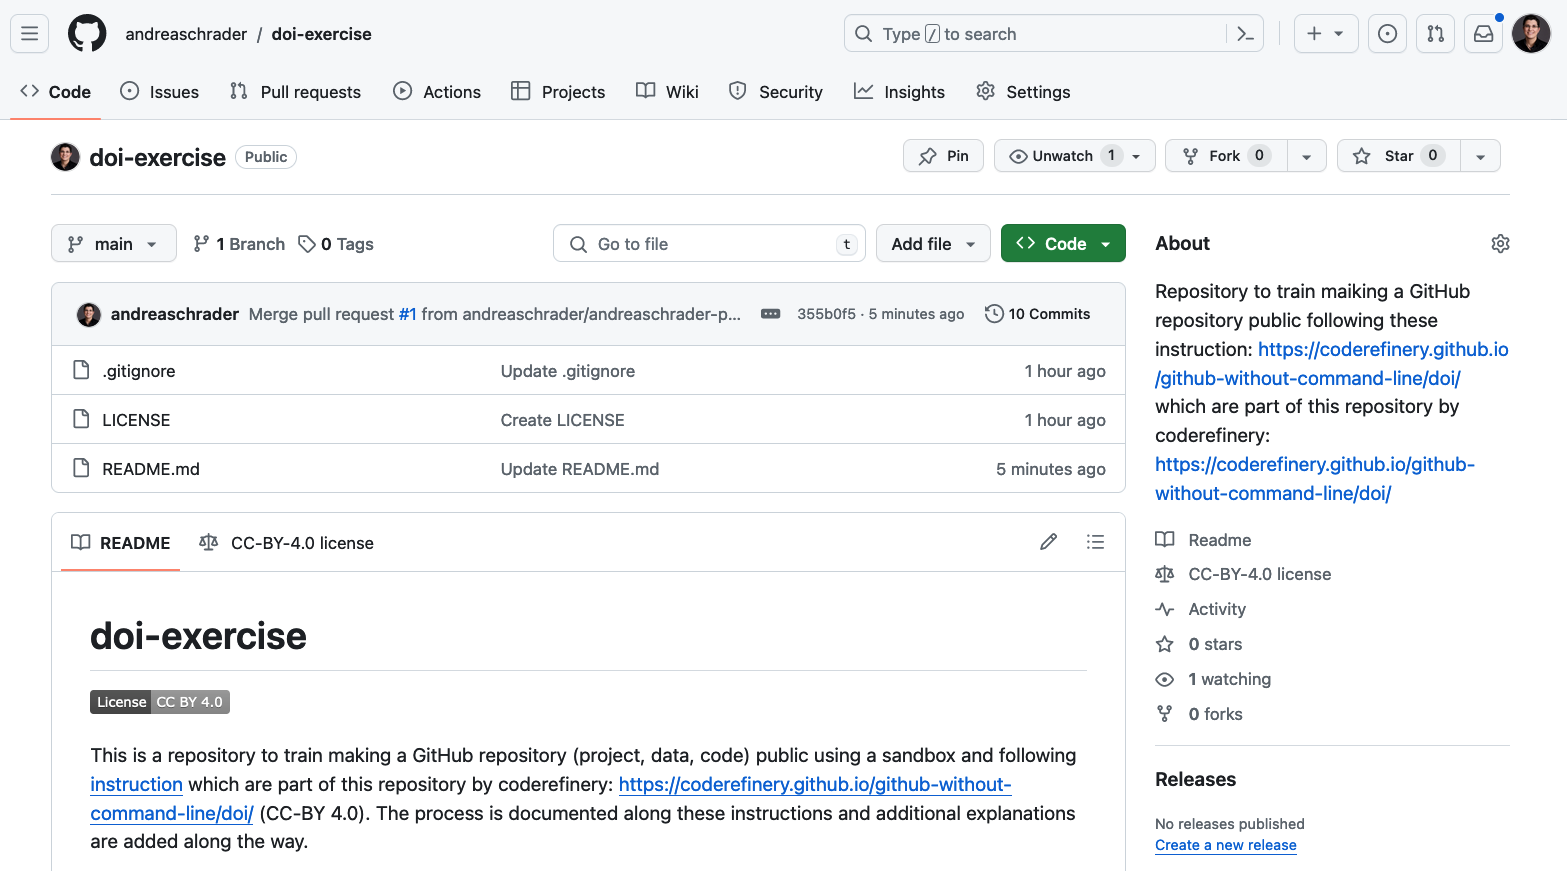
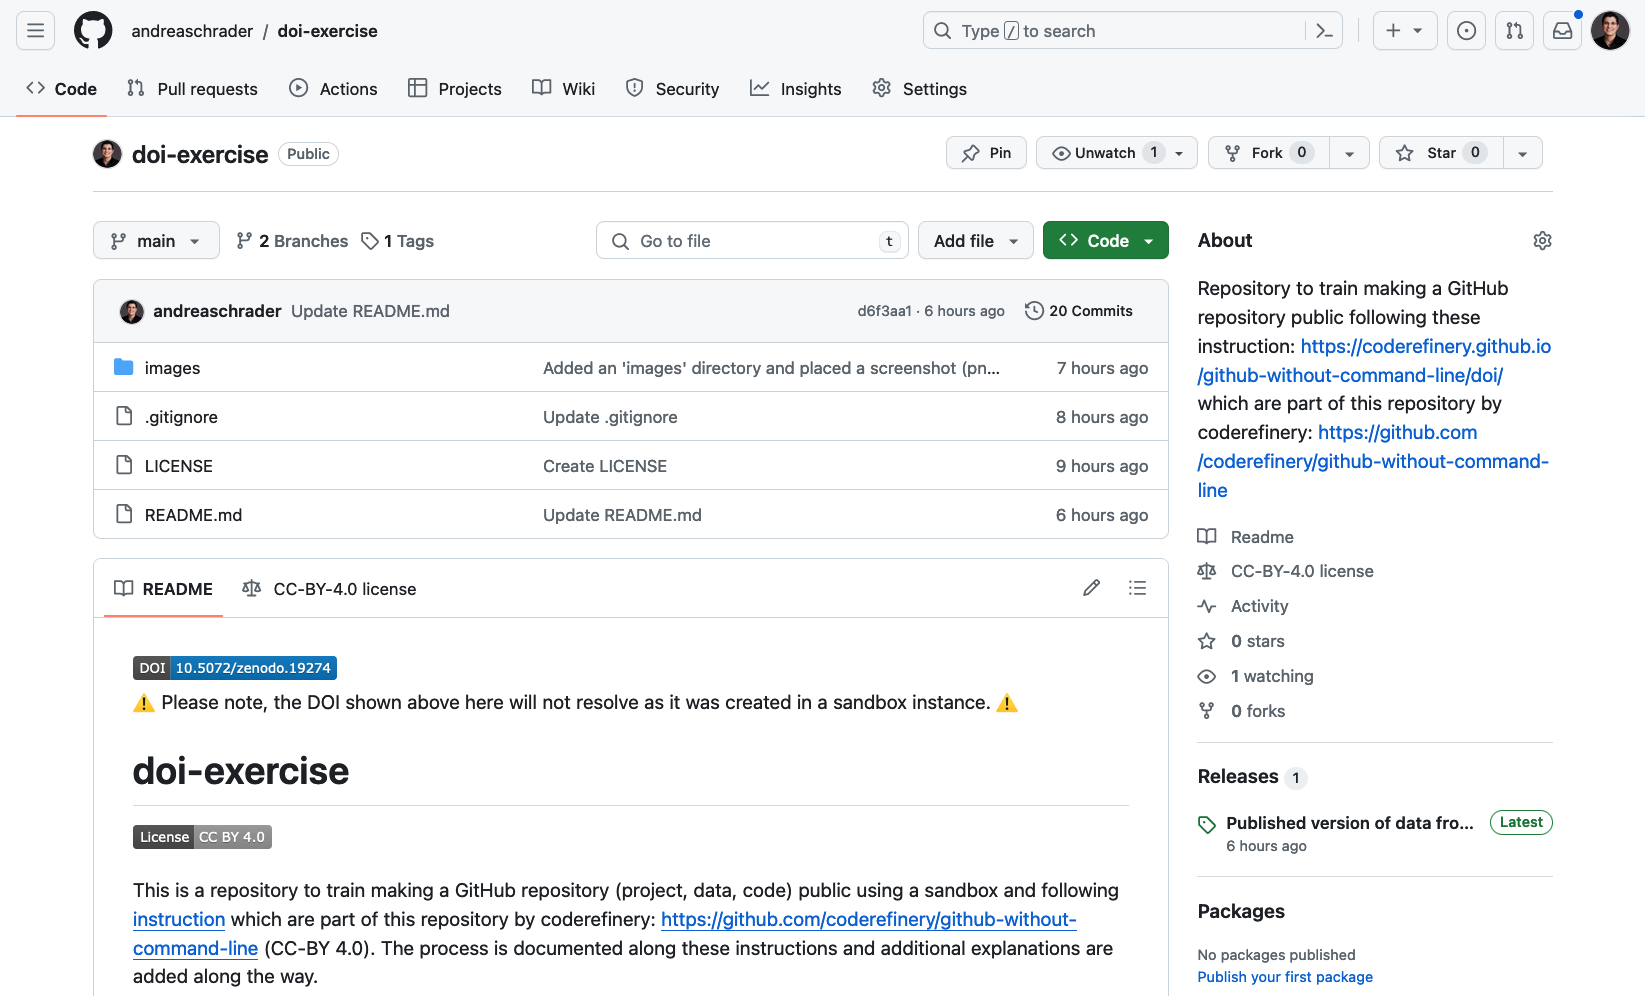
Completed Step 2 and Step 3, added a screenshot of the final release at zenodo and replaced the repository's screenshot with a newer version.

diff --git a/README.md b/README.md
@@ -73,9 +73,33 @@ tbc
 
 ## Step 3
 
+Going back to the doi-exercise repository, I selected `Releases` in the right sidebar and `Create a new release` on the next page.
+
+Choose a tag: Here you can enter a version for your repository. For continuous development carefully select the format of the selected version.
+I chose v1.0
+
+Target: This is the branch of the repository selected for the release. 
+I chose `main`.
+
+Add a `Release title` and optionally a more detailed descriptions including differences e.g to a previous release in subsequent releases can be added.
+
+Eventually conclude with `Publish release`.
+
+I changed back to Zenodo (sandbox) and refreshed the page. In my case the Releases were directly updated:
+
+![zenodo-release-screenshot](./images/zenodo-releases-screenshot.png)
 
 ## Step 4
 
+A badge at the begin of the README of the respective repository can directly guide you to the citation at Zenodo and displays the doi (here it is only the sandbox version for the test).
+
+To obtain the code that you have to insert into the README.md file, go to zenodo (sandbox) click on the badge for the repository and copy the line for `Markdown` - see also at the begin of this repository.
+
+After committing the changes, it will be displayed like [here](./README.md).
+
+## Other steps
+
+With this, your project is citable and you obtained a persistent identifier for it. However, you might want to add specific metadata which could not be captured by Zenodo or was not available from your GitHub account. You might also want to support the user with an easily extractable citation or update the version at Zenodo upon a new release. Below are some thoughts and suggestions on a supportive citation file.
 
 ## CITATION
 
@@ -89,4 +113,5 @@ When deciding for a citation file, according to the GitHub and Zenodo documentat
 
 <br/>
 
-If the chunks of text and collected information above were supportive for you, please ***cite and star ⭐ this repository*** :smile:
+If the chunks of text and collected information above were supportive for you, please ***cite and star ⭐ this repository*** :smile:  
+Thanx!
